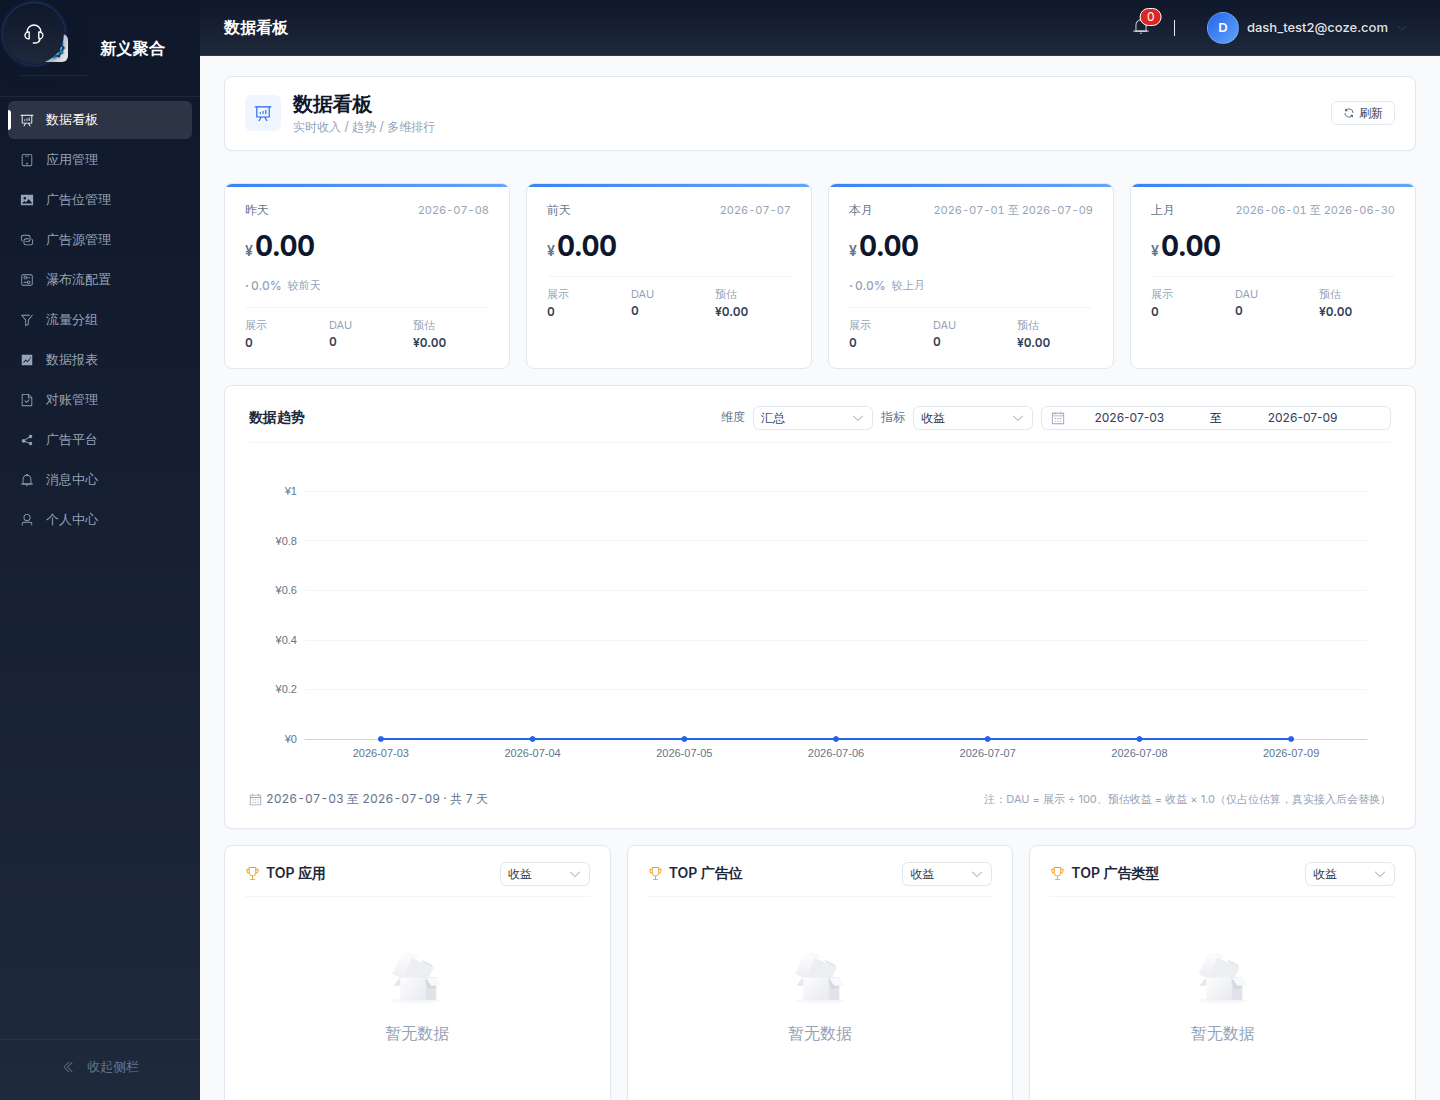
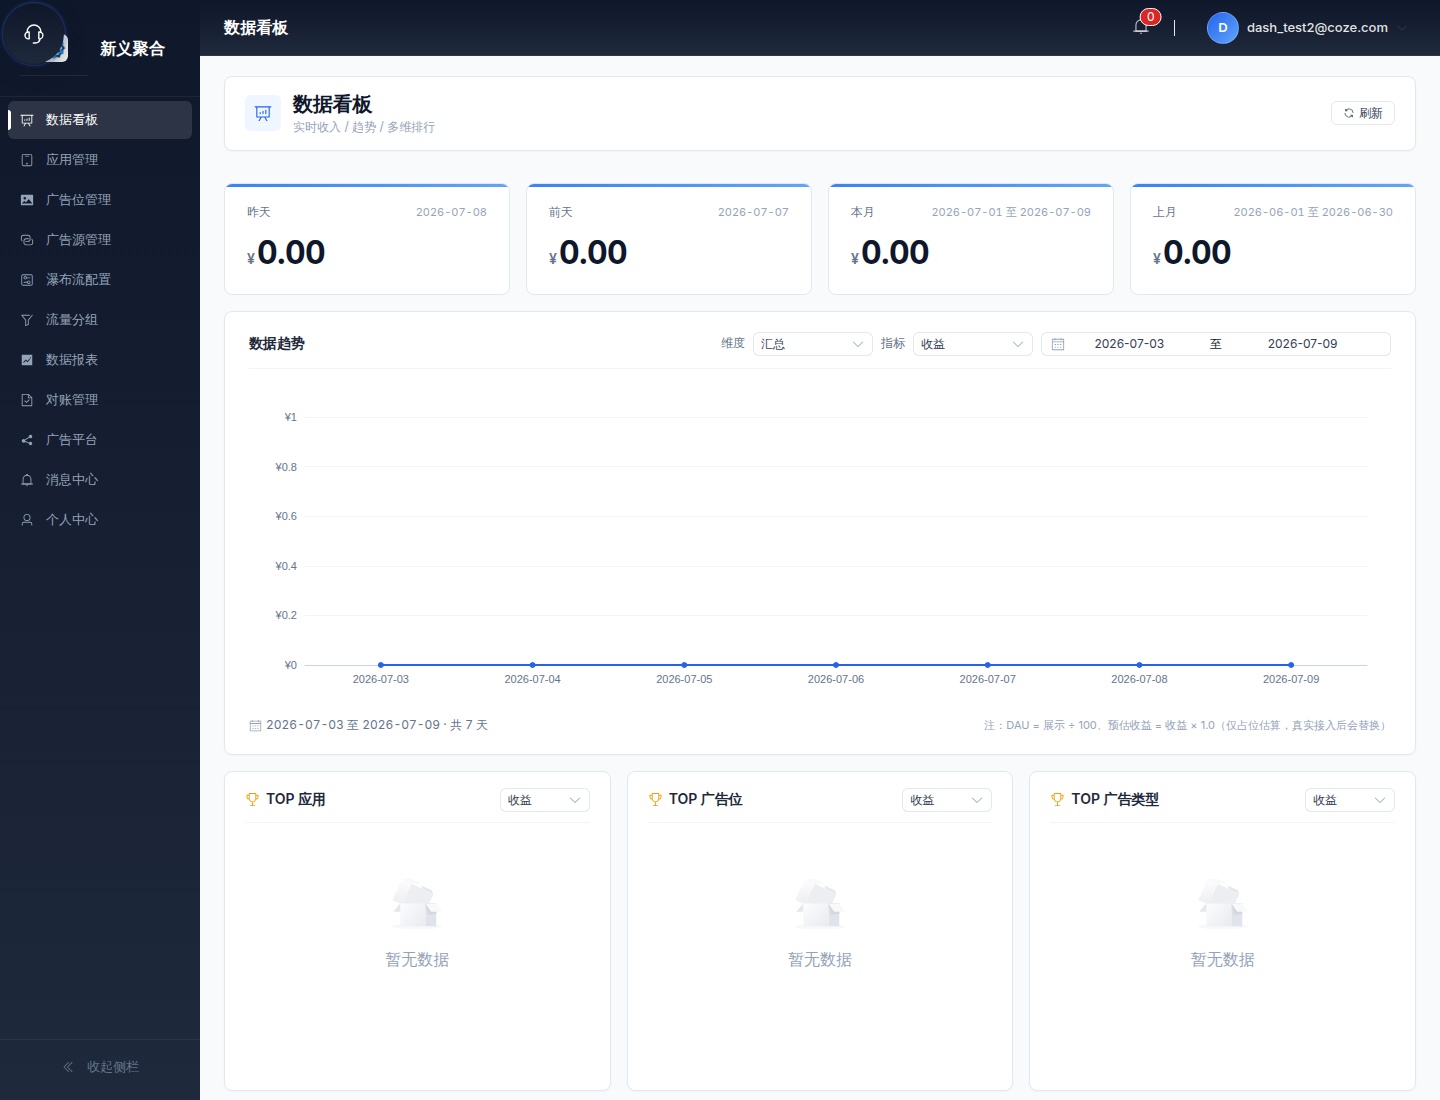
refactor(dashboard): 简化收入详情卡片，只展示对应收益
Coze-Commit-Type: user
Coze-User-ID: 3335283175079384
Coze-Conversation-ID: 9828427

diff --git a/src/views/dashboard/Index.vue b/src/views/dashboard/Index.vue
@@ -47,33 +47,6 @@
           <span class="stat-card__currency">¥</span>
           <span class="stat-card__value">{{ card.revenueDisplay }}</span>
         </div>
-
-        <div v-if="card.trend != null && card.compareWith" class="stat-card__trend">
-          <span :class="['trend-arrow', card.trend > 0 ? 'up' : card.trend < 0 ? 'down' : 'flat']">
-            <el-icon v-if="card.trend > 0"><CaretTop /></el-icon>
-            <el-icon v-else-if="card.trend < 0"><CaretBottom /></el-icon>
-            <span v-else>·</span>
-          </span>
-          <span :class="['trend-text', card.trend > 0 ? 'up' : card.trend < 0 ? 'down' : 'flat']">
-            {{ Math.abs(card.trend).toFixed(1) }}%
-          </span>
-          <span class="stat-card__compare">{{ card.compareWith }}</span>
-        </div>
-
-        <div class="stat-card__sub">
-          <div class="stat-card__sub-item">
-            <span class="stat-card__sub-label">展示</span>
-            <span class="stat-card__sub-value">{{ card.impressionsDisplay }}</span>
-          </div>
-          <div class="stat-card__sub-item">
-            <span class="stat-card__sub-label">DAU</span>
-            <span class="stat-card__sub-value">{{ card.dauDisplay }}</span>
-          </div>
-          <div class="stat-card__sub-item">
-            <span class="stat-card__sub-label">预估</span>
-            <span class="stat-card__sub-value">¥{{ card.estimatedDisplay }}</span>
-          </div>
-        </div>
       </div>
     </div>
 
@@ -187,8 +160,8 @@ import {
 import VChart from 'vue-echarts'
 import {
   DataAnalysis,
-  CaretTop,
-  CaretBottom,
+  ArrowUp,
+  ArrowDown,
   Refresh,
   Calendar,
   Trophy,
@@ -396,10 +369,7 @@ async function loadOverview() {
   try {
     const res = await request.get<unknown>('/api/v1/console/dashboard/overview')
     const inner = (res as { data?: unknown })?.data
-    const stats: Array<{
-      key: string; label: string; period: string; compareWith: string; trend: number
-      values: { revenue: number; impressions: number; dau: number; estimatedRevenue: number }
-    }> = Array.isArray(inner)
+    const stats: Array<{ key: string; label: string; period: string; revenue: number }> = Array.isArray(inner)
       ? (inner as never)
       : (inner && typeof inner === 'object' && Array.isArray((inner as { stats?: unknown[] }).stats))
         ? ((inner as { stats: never[] }).stats)
@@ -408,12 +378,7 @@ async function loadOverview() {
       key: s.key,
       label: s.label,
       period: s.period,
-      compareWith: s.compareWith,
-      revenueDisplay: formatNumber(s.values.revenue, 'revenue'),
-      impressionsDisplay: formatNumber(s.values.impressions, 'impressions'),
-      dauDisplay: formatNumber(s.values.dau, 'dau'),
-      estimatedDisplay: formatNumber(s.values.estimatedRevenue, 'estimatedRevenue'),
-      trend: s.trend,
+      revenueDisplay: formatNumber(s.revenue, 'revenue'),
     }))
   } catch (err: unknown) {
     const msg = err instanceof Error ? err.message : '加载收入详情失败'

diff --git a/src/index.css b/src/index.css
@@ -3755,32 +3755,8 @@ html, body, #app {
   .stat-grid { grid-template-columns: 1fr; }
 }
 
-/* ---------- Stat Card 内部结构（基于 DESIGN.md Stat Card 规范扩展） ---------- */
-.stat-card__trend {
-  display: inline-flex;
-  align-items: center;
-  gap: 2px;
-  margin-top: var(--space-sm);
-  font-size: var(--text-sm);
-  font-weight: 500;
-  font-variant-numeric: tabular-nums;
-}
-.trend-arrow.up   { color: #059669; font-weight: 700; }
-.trend-arrow.down { color: #DC2626; font-weight: 700; }
-.trend-arrow.flat { color: var(--color-slate-400); font-weight: 700; }
-.trend-text.up    { color: #059669; }
-.trend-text.down  { color: #DC2626; }
-.trend-text.flat  { color: var(--color-slate-400); }
-/* 对比基准文案：trend 数字后说明百分比是与哪个时间点对比的（如"较昨日"） */
-.stat-card__compare {
-  margin-left: 4px;
-  font-size: 11px;
-  font-weight: 500;
-  color: #94A3B8;
-  letter-spacing: 0;
-}
-
 /* ---------- Chart Card（趋势图，直接用 .page-card 容器） ---------- */
+
 .page-chart-card {
   /* 卡片整体内边距，避免 ECharts / 标题贴卡片边（数据看板硬规范） */
   padding: 20px 24px;
@@ -4629,10 +4605,10 @@ html, body, #app {
   background: #FFFFFF;
   border-radius: var(--radius-lg);
   border: 1px solid var(--color-slate-200);
-  padding: 18px 20px;
+  padding: 20px 22px 24px;
   display: flex;
   flex-direction: column;
-  gap: 8px;
+  gap: 10px;
   position: relative;
   overflow: hidden;
   transition: all 150ms ease;
@@ -4681,39 +4657,12 @@ html, body, #app {
   color: var(--color-slate-500, #64748B);
 }
 .stat-card--income .stat-card__value {
-  font-size: 28px;
+  font-size: 32px;
   font-weight: 700;
   color: var(--color-slate-900, #0F172A);
   letter-spacing: -0.02em;
   font-variant-numeric: tabular-nums;
   line-height: 1.1;
-}
-.stat-card--income .stat-card__sub {
-  display: grid;
-  grid-template-columns: repeat(3, 1fr);
-  gap: 8px;
-  margin-top: 6px;
-  padding-top: 10px;
-  border-top: 1px solid var(--color-slate-100, #F1F5F9);
-}
-.stat-card--income .stat-card__sub-item {
-  display: flex;
-  flex-direction: column;
-  gap: 2px;
-  min-width: 0;
-}
-.stat-card--income .stat-card__sub-label {
-  font-size: 11px;
-  color: var(--color-slate-400, #94A3B8);
-}
-.stat-card--income .stat-card__sub-value {
-  font-size: 12px;
-  font-weight: 600;
-  color: var(--color-slate-700, #334155);
-  font-variant-numeric: tabular-nums;
-  white-space: nowrap;
-  overflow: hidden;
-  text-overflow: ellipsis;
 }
 
 /* ---------- 中：数据趋势（page-section） ---------- */

diff --git a/server/routes/dashboard.ts b/server/routes/dashboard.ts
@@ -83,12 +83,6 @@ async function aggregateRange(
   };
 }
 
-/** 计算环比 %：prev=0 时返回 0 */
-function pct(cur: number, prev: number): number {
-  if (prev <= 0) return 0;
-  return Number((((cur - prev) / prev) * 100).toFixed(2));
-}
-
 /** metric → report_daily 列名映射 + 估算公式
  * - revenue / impressions : 真实列
  * - estimatedRevenue : revenue × 1.0
@@ -171,43 +165,31 @@ router.get('/overview', authMiddleware, async (req: express.Request, res: expres
       aggregateRange(developerId, lastMonthStart, lastMonthEnd),
     ]);
 
-    // 4 个 stat-card：每个含 revenue/impressions/estimatedRevenue/dau + 对比基准
+    // 4 个 stat-card：每个只含 revenue + 期间
     const stats = [
       {
         key: 'yesterday',
         label: '昨天',
         period: yesterdayStr,
-        compareWith: '较前天',
-        compareDate: dayBeforeStr,
-        values: yesterday,
-        trend: pct(yesterday.revenue, dayBefore.revenue),
+        revenue: yesterday.revenue,
       },
       {
         key: 'dayBefore',
         label: '前天',
         period: dayBeforeStr,
-        compareWith: '',
-        compareDate: '',
-        values: dayBefore,
-        trend: 0,
+        revenue: dayBefore.revenue,
       },
       {
         key: 'thisMonth',
         label: '本月',
         period: `${thisMonthStart} 至 ${todayStr}`,
-        compareWith: '较上月',
-        compareDate: '',
-        values: thisMonth,
-        trend: pct(thisMonth.revenue, lastMonth.revenue),
+        revenue: thisMonth.revenue,
       },
       {
         key: 'lastMonth',
         label: '上月',
         period: `${lastMonthStart} 至 ${lastMonthEnd}`,
-        compareWith: '',
-        compareDate: '',
-        values: lastMonth,
-        trend: 0,
+        revenue: lastMonth.revenue,
       },
     ];
 
